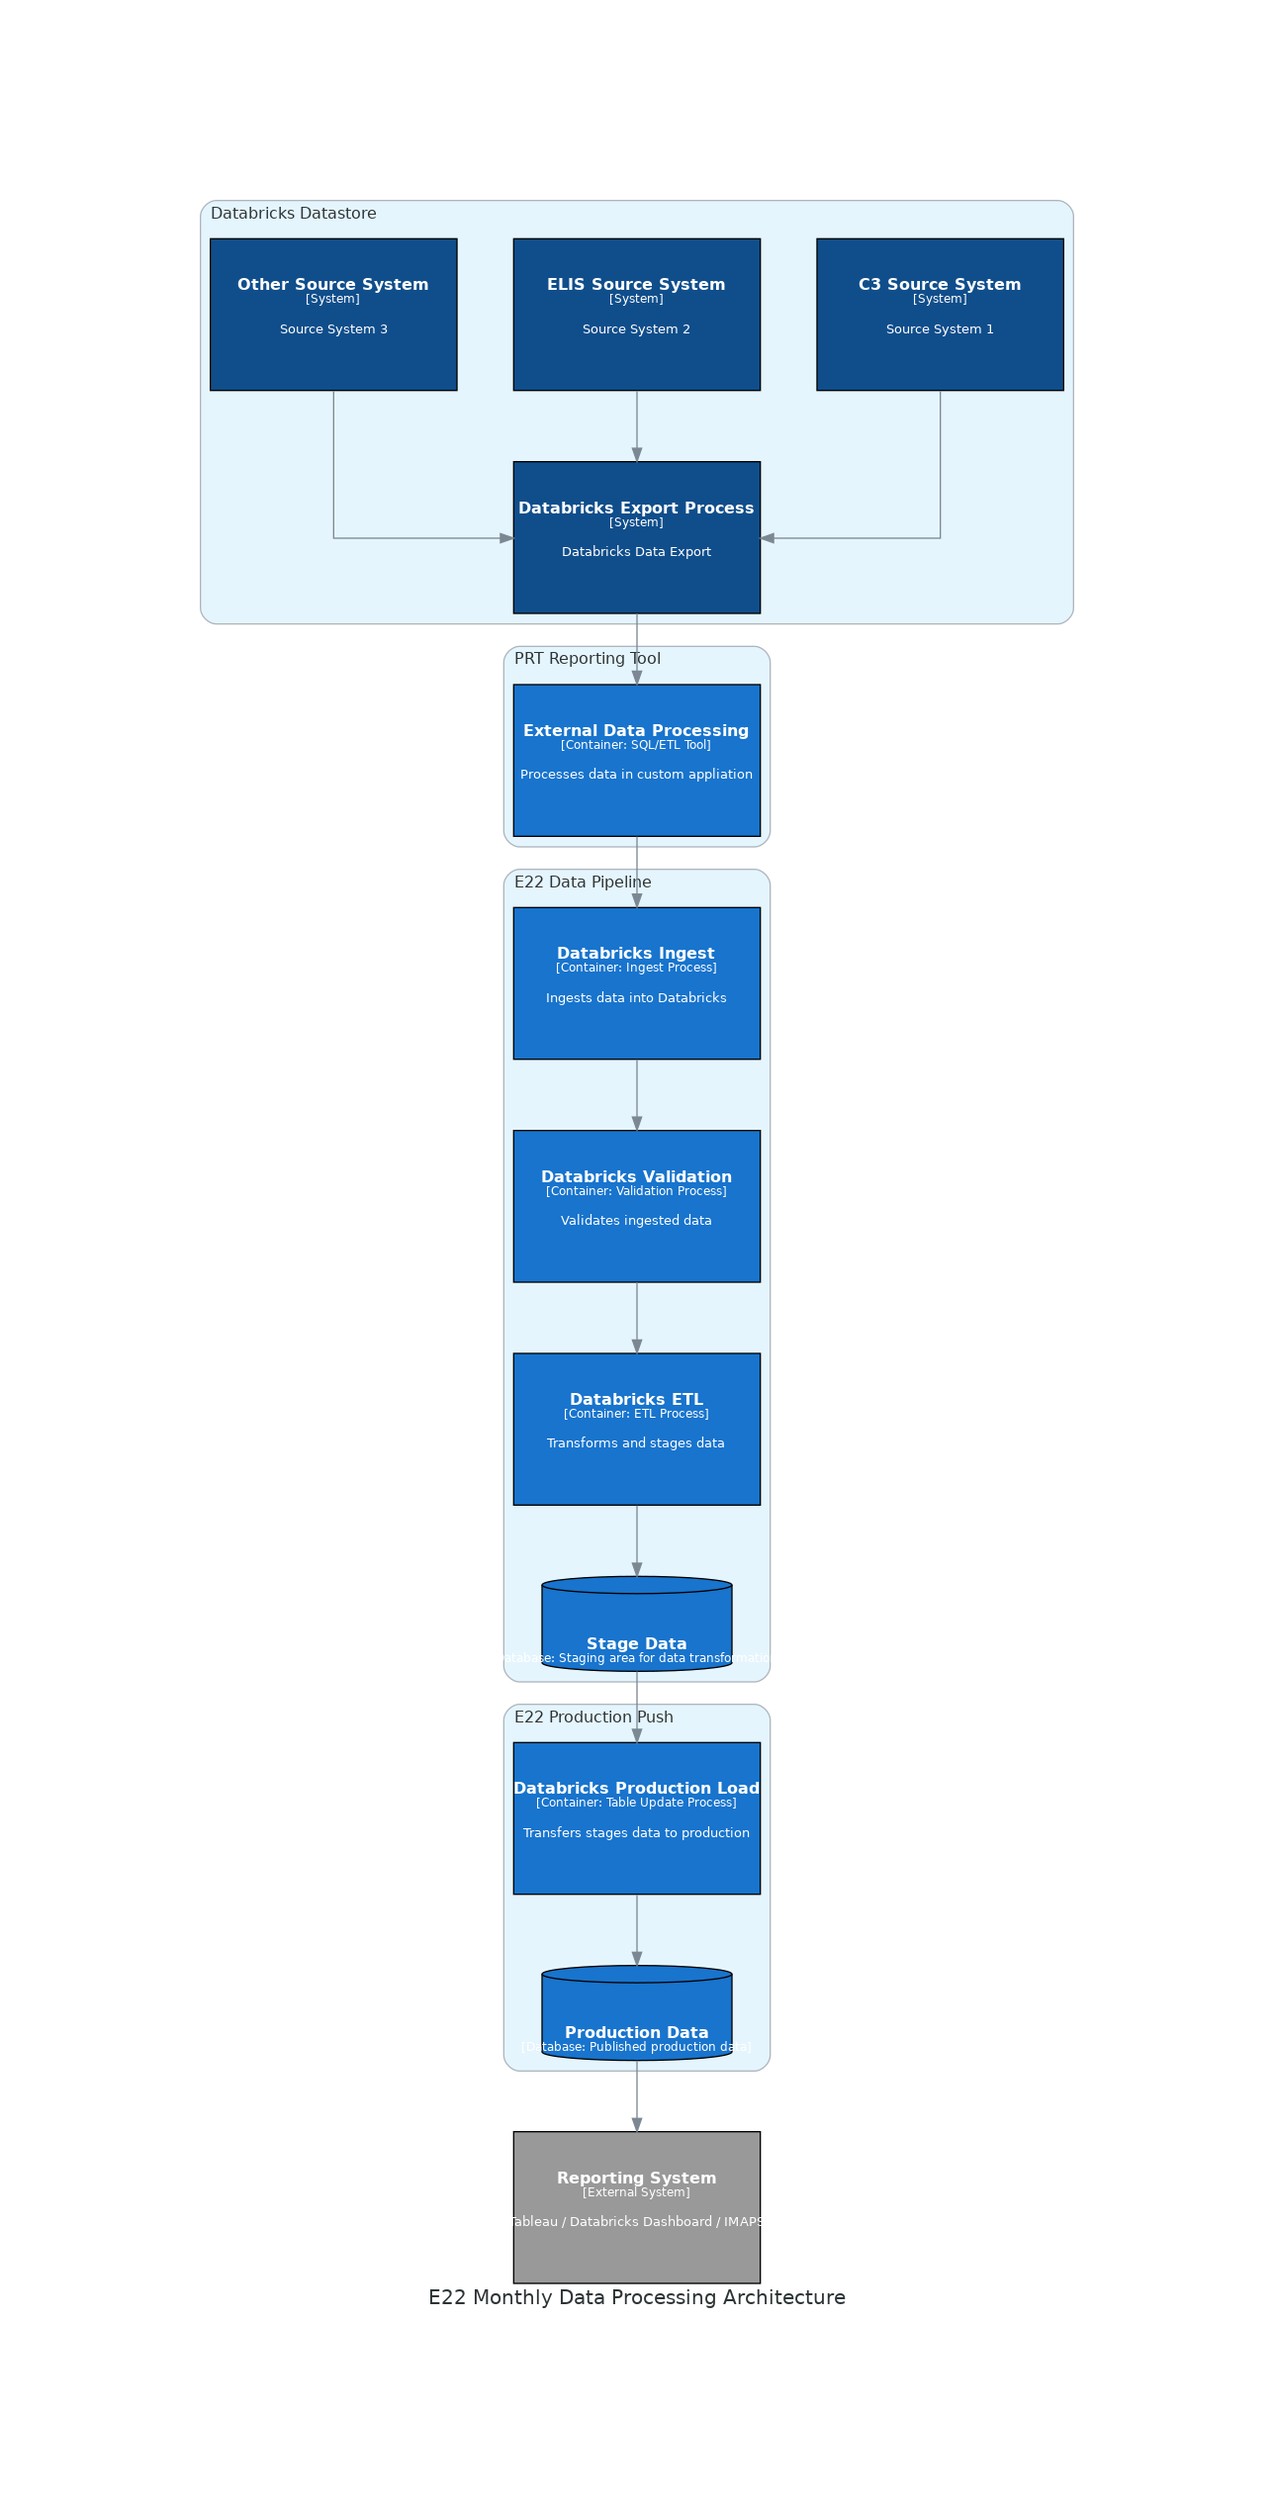
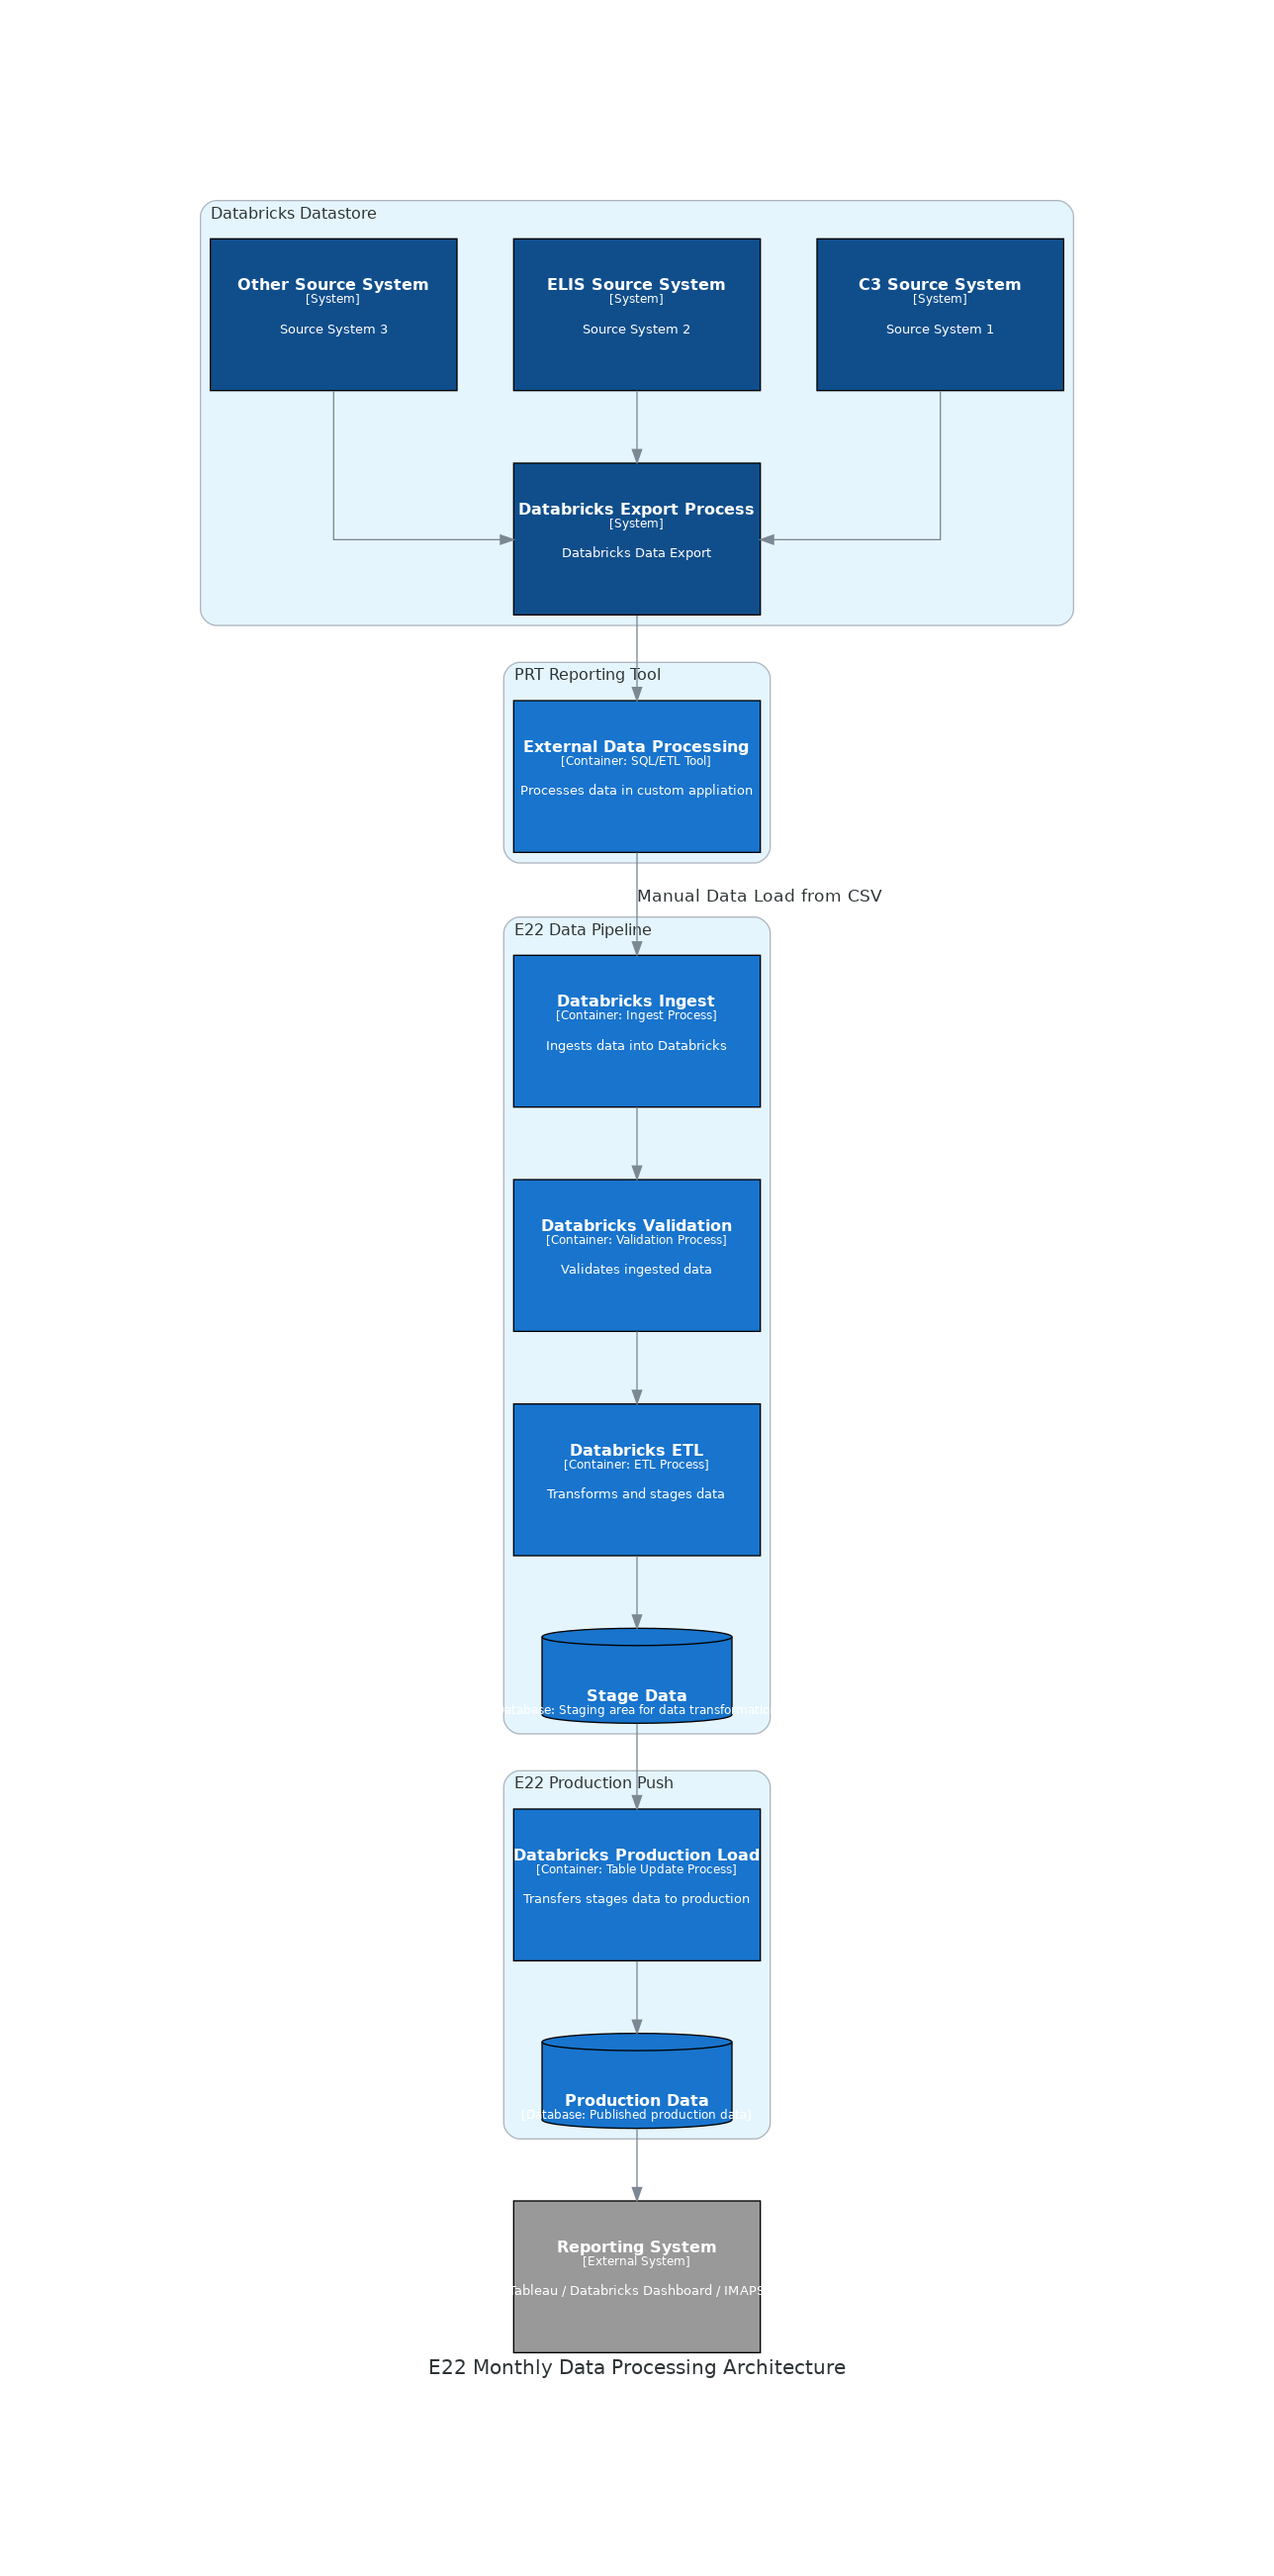
add edge

Changed region(s): [[0.1553, 0.0624, 0.8385, 0.9356], [0.1553, 0.0624, 0.3727, 0.1559]]

diff --git a/applications/e22_data_pipeline.py b/applications/e22_data_pipeline.py
@@ -48,7 +48,7 @@ def create_architecture_diagram():
         
         databricks_export >> external_processing
         
-        external_processing >> ingest_service
+        external_processing >> Edge(label="Manual Data Load from CSV") >> ingest_service
         
         ingest_service >> validation_service
         validation_service >> etl_service
